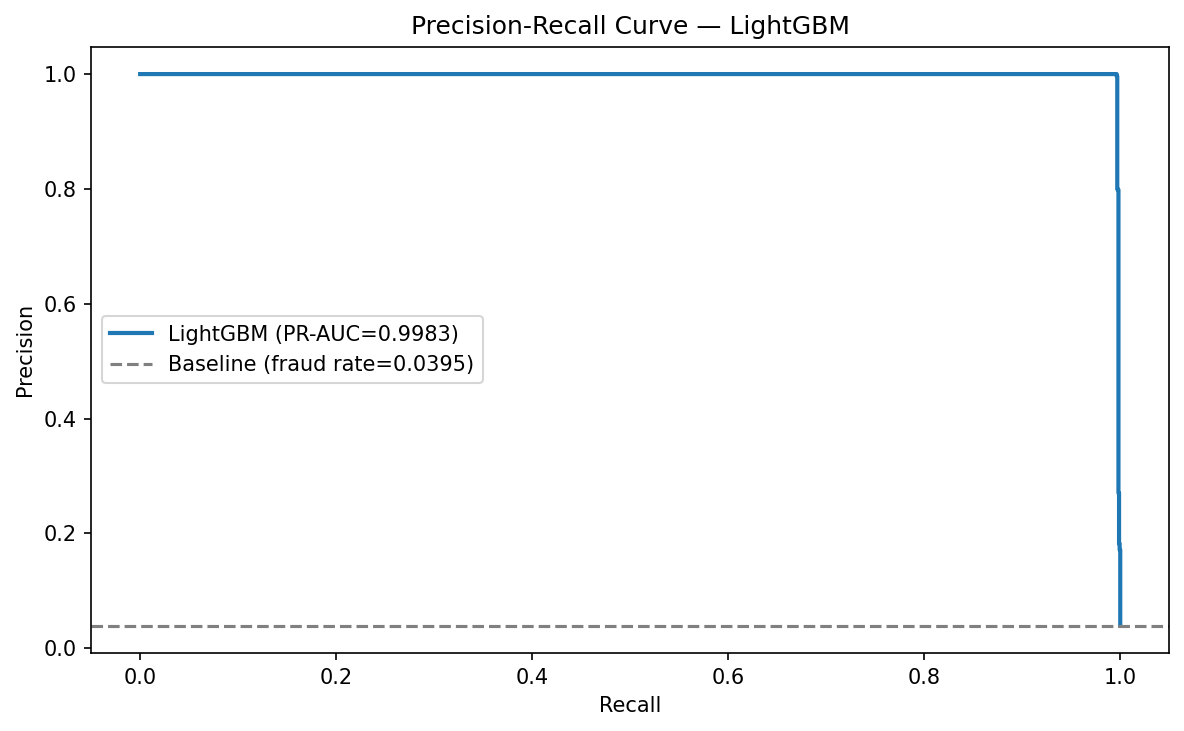
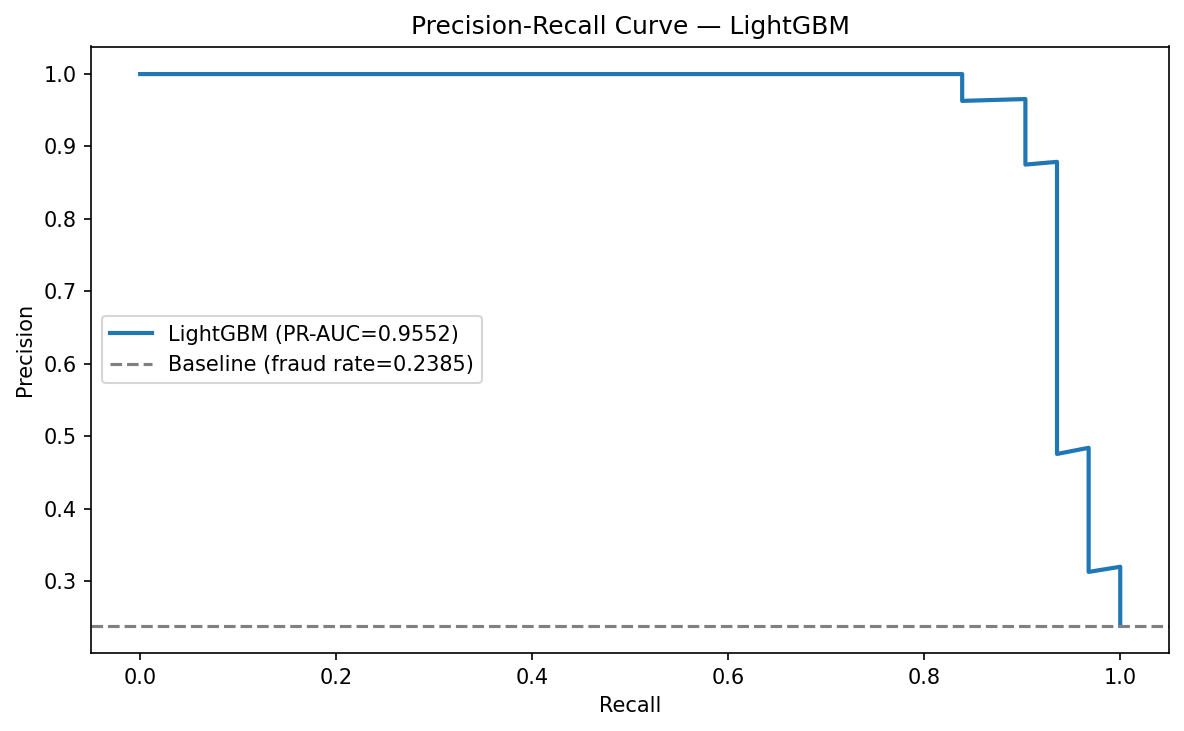
feat: add paper UPI dataset (Sadaf & Manivannan) as 3rd training path
- Added _detect_paper_dataset() + engineer_paper_features() for the exact CSV
  the paper used (647 rows, 20 cols, fraud=155 / 23.96%)
- Extracts hour_of_day, day_of_week from Date+Time columns
- Adds log_amount (paper omitted this); drops high-cardinality ID columns
- PAPER_CATEGORICAL: Transaction_Type, Payment_Gateway, Transaction_Status,
  Device_OS, Merchant_Category, Transaction_Channel
- PAPER_NUMERICAL: Transaction_Frequency, Days_Since_Last_Transaction,
  Transaction_Amount_Deviation, amount, log_amount, hour_of_day, day_of_week
- Results on paper CSV + SMOTE + F2-threshold:
    XGBoost    PR-AUC=0.9575  F2=0.8766  ROC-AUC=0.9726
    LightGBM   PR-AUC=0.9552  F2=0.9236  ROC-AUC=0.9661
    Voting     PR-AUC=0.9517  F2=0.9236  ROC-AUC=0.9616
  vs paper without SMOTE: ROC-AUC 0.8512, recall 65% (missed 35% fraud)
- main() now auto-detects PaySim / paper UPI / generic CSV / synthetic

diff --git a/services/local_engine/train_ensemble.py b/services/local_engine/train_ensemble.py
@@ -184,6 +184,85 @@ def _detect_paysim(df: pd.DataFrame) -> bool:
     paysim_cols = {"step", "type", "nameOrig", "nameDest", "oldbalanceOrg", "isFraud"}
     return paysim_cols.issubset(set(df.columns))
 
+
+# ── Paper dataset (Sadaf & Manivannan) feature columns & engineering ──────────
+# These are the exact features from the paper's UPI transaction dataset.
+# Paper used 660 records; this CSV has 647 rows, fraud=155 (23.95%)
+# Paper result without SMOTE: 65% recall, ROC-AUC 85.12%
+
+PAPER_CATEGORICAL = [
+    "Transaction_Type",      # Refund, Bank Transfer, Subscription, etc.
+    "Payment_Gateway",       # SamplePay, Sigma Bank, Other, etc.
+    "Transaction_Status",    # Completed, Pending, Failed
+    "Device_OS",             # Android, Windows, MacOS, iOS
+    "Merchant_Category",     # Investment, Utilities, Brand Vouchers, etc.
+    "Transaction_Channel",   # In-store, Mobile, Online
+]
+PAPER_NUMERICAL = [
+    # Paper's core behavioural features (explicitly mentioned in methodology)
+    "Transaction_Frequency",        # how many tx in recent window — velocity signal
+    "Days_Since_Last_Transaction",  # recency — sudden activity after dormancy = fraud signal
+    "Transaction_Amount_Deviation", # how much this tx deviates from customer's avg amount
+    # Financial
+    "amount",
+    "log_amount",           # we add this — paper skipped log transform (skew)
+    # Time features extracted from Date/Time columns
+    "hour_of_day",          # late-night transactions are higher risk
+    "day_of_week",          # weekend/weekday pattern
+]
+
+
+def engineer_paper_features(df: pd.DataFrame) -> pd.DataFrame:
+    """
+    Engineer features from the Sadaf & Manivannan UPI transaction CSV.
+
+    The paper used 660 UPI records with 23 attributes.  This function:
+    1. Parses Date + Time into hour_of_day / day_of_week (paper's "temporal" features)
+    2. Adds log_amount to correct the right skew the paper ignored
+    3. Renames the 'fraud' target column to the system-wide 'is_fraud'
+    4. Drops high-cardinality ID columns (Transaction_ID, Merchant_ID, Customer_ID,
+       Device_ID, IP_Address, Transaction_City, Transaction_State) that are unique
+       per row and would cause the model to memorise rather than generalise
+
+    Why the paper got 65% recall (our hypothesis):
+    - No SMOTE: 492 legit vs 155 fraud → model biased toward majority class
+    - Default threshold 0.5 on imbalanced data misses many fraud cases
+    - We fix both: SMOTE in train_ensemble + F2-optimised threshold
+    """
+    df = df.copy()
+
+    # Parse time features from Date (DD/MM/YY or DD/MM/YYYY) and Time (HH:MM:SS)
+    try:
+        dt = pd.to_datetime(df["Date"].astype(str) + " " + df["Time"].astype(str),
+                            dayfirst=True, errors="coerce")
+        df["hour_of_day"] = dt.dt.hour.fillna(12).astype(int)
+        df["day_of_week"] = dt.dt.dayofweek.fillna(0).astype(int)
+    except Exception:
+        df["hour_of_day"] = 12
+        df["day_of_week"] = 0
+
+    # Log-transform amount (skewed distribution — paper did not do this)
+    df["log_amount"] = np.log1p(df["amount"])
+
+    # Rename target to system standard
+    if "fraud" in df.columns and TARGET not in df.columns:
+        df.rename(columns={"fraud": TARGET}, inplace=True)
+
+    fraud_rate = df[TARGET].mean()
+    log.info(
+        "Paper dataset after feature engineering: %d rows | fraud=%d (%.2f%%)",
+        len(df), int(df[TARGET].sum()), 100 * fraud_rate,
+    )
+    return df
+
+
+def _detect_paper_dataset(df: pd.DataFrame) -> bool:
+    """Return True if this looks like the Sadaf & Manivannan UPI CSV."""
+    paper_cols = {"Transaction_Frequency", "Days_Since_Last_Transaction",
+                  "Transaction_Amount_Deviation", "Payment_Gateway", "fraud"}
+    return paper_cols.issubset(set(df.columns))
+
+
 # ── Synthetic dataset generator ───────────────────────────────────────────────
 
 def _make_synthetic_dataset(n_rows: int = 10_000, fraud_rate: float = 0.025) -> pd.DataFrame:
@@ -700,8 +779,14 @@ def main(data_path: str | None = None) -> None:
             )
             cat_cols = PAYSIM_CATEGORICAL
             num_cols = PAYSIM_NUMERICAL
+        elif _detect_paper_dataset(df_raw):
+            log.info("Detected paper UPI dataset (Sadaf & Manivannan) — applying feature engineering …")
+            df = engineer_paper_features(df_raw)
+            cat_cols = PAPER_CATEGORICAL
+            num_cols = PAPER_NUMERICAL
         else:
-            df.rename(columns={"isFraud": TARGET, "Amount": "amount"}, inplace=True, errors="ignore")
+            df_raw.rename(columns={"isFraud": TARGET, "Amount": "amount"}, inplace=True, errors="ignore")
+            df      = df_raw
             cat_cols, num_cols = CATEGORICAL, NUMERICAL
     else:
         log.warning("No CSV supplied — using 10 000-row synthetic dataset")
@@ -765,7 +850,7 @@ def main(data_path: str | None = None) -> None:
     print(f"\n{'═'*60}")
     print("  TRAINING SUMMARY")
     print(f"{'═'*60}")
-    print(f"  Dataset    : {'PaySim (real)' if paysim_mode else 'Synthetic'}")
+    print(f"  Dataset    : {'PaySim (real)' if paysim_mode else 'Paper UPI (Sadaf & Manivannan)' if cat_cols == PAPER_CATEGORICAL else 'Synthetic'}")
     print(f"  Features   : {len(feature_cols)} ({', '.join(feature_cols[:4])} …)")
     print(f"  Fraud rate : {100*fraud_rate:.4f}%")
     print(f"  Opt thresh : {opt_threshold:.4f} (F2-maximising)")
